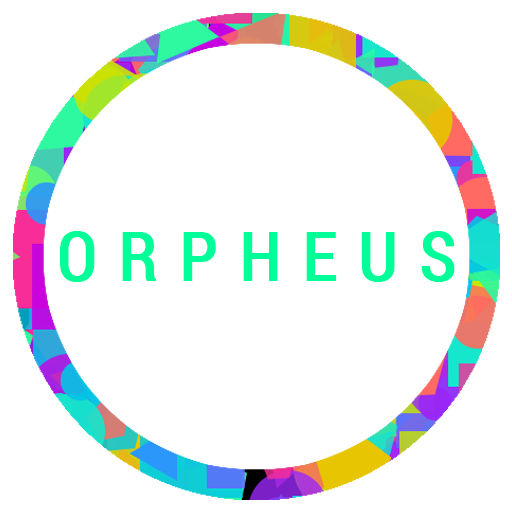
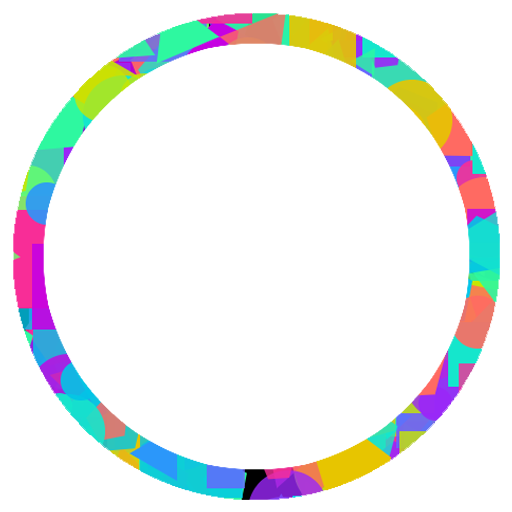
Removed Orpheus branding

diff --git a/application/views/templates/about_dialog.php b/application/views/templates/about_dialog.php
@@ -2,7 +2,7 @@
     <h4 class="mdl-dialog__title">About App</h4>
     <div class="mdl-dialog__content">
         <div style="z-index: 9000; position: fixed;">
-            <a href="https://orpheus.digital" class="shadowLink">
+            <a href="#" class="shadowLink">
                 <img src='<?=base_url().'assets/images/512B.png';?>' >
             </a>
         </div>
@@ -12,15 +12,8 @@
         <div style="position: relative;">
             <img src='<?=base_url().'assets/images/orpheus.png';?>'>
         </div>
-        <p> 
-            <br/>
-            System Designed by Orpheus Digital
-        </p>
         <p>
         Version: 1.0.0
-        </p>
-        <p>
-            Copyrights © <a href="https://orpheus.digital" id="aboutLink">Solved by Orpheus</a> 2020
         </p>
     </div>
     <div class="mdl-dialog__actions">

diff --git a/application/views/login.php b/application/views/login.php
@@ -15,7 +15,7 @@ include "templates/top.php";
                 <?php echo validation_errors(); ?>
                 </php echo $status; ?>
                 <div class="aligned" style="z-index: 9000">
-                    <a href="https://orpheus.digital" class="shadowLink">
+                    <a href="#" class="shadowLink">
                         <img src='<?=base_url().'assets/images/512B.png';?>' >
                     </a>
                 </div>
